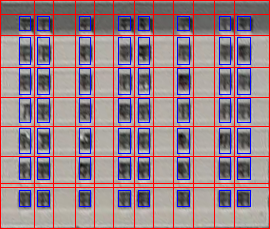
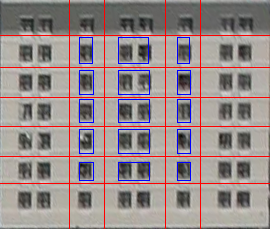
update.

Changed region(s): [[0.0, 0.0, 1.0, 1.0]]

diff --git a/Test8/main.cpp b/Test8/main.cpp
@@ -16,6 +16,7 @@
 #include <opencv2/opencv.hpp>
 #include "CVUtils.h"
 #include "Utils.h"
+#include <time.h>
 
 using namespace std;
 
@@ -919,93 +920,57 @@ bool subdivideTile(const cv::Mat& tile, const cv::Mat& edges, int min_size, int 
 }
 
 /**
- * 領域(x1,y1)-(x2,y2)を分割し、領域を更新する。
- */
-void updateRegion(const Subdivision& subdivision, int& x1, int& y1, int& x2, int& y2) {
-	if (subdivision.dir == Subdivision::TYPE_LEFT) {
-		x1 += subdivision.dist;
-		if (subdivision.dual) {
-			x2 -= subdivision.dist;
-		}
-	}
-	else if (subdivision.dir == Subdivision::TYPE_RIGHT) {
-		x2 -= subdivision.dist;
-		if (subdivision.dual) {
-			x1 -= subdivision.dist;
-		}
-	}
-	else if (subdivision.dir == Subdivision::TYPE_TOP) {
-		y1 += subdivision.dist;
-		if (subdivision.dual) {
-			y2 -= subdivision.dist;
-		}
-	}
-	else if (subdivision.dir == Subdivision::TYPE_BOTTOM) {
-		y2 -= subdivision.dist;
-		if (subdivision.dual) {
-			y1 -= subdivision.dist;
-		}
-	}
-}
-
-/**
  * Ver(y)の極小値をsplit lineの候補とし、S_max(y)に基づいて最適なsplit lineの組み合わせを探す。
  *
- * @param img			Facade画像 (3-channel image)
- * @param SV_max		S_max(y)
- * @param h_max			h_max(y)
- * @param floor_height	floor height
  * @param Ver			Ver(y)
+ * @param min_interval	minimum floor height
+ * @param max_interval	maximum floor height
  * @param y_split		最適なsplit lineの組み合わせ
  */
-void findBestHorizontalSplitLines(const cv::Mat& img, const cv::Mat_<float>& SV_max, const cv::Mat_<float>& h_max, const float floor_height, const cv::Mat_<float>& Ver, vector<int>& y_split) {
+void findBestHorizontalSplitLines(const cv::Mat& img, const cv::Mat_<float>& Ver, float min_interval, float max_interval, vector<int>& y_split) {
 	y_split.clear();
 
-	vector<int> y_potential;
-	for (int r = 0; r < Ver.rows; ++r) {
-		if (cvutils::isLocalMinimum(Ver, r, 3)) {
-			y_potential.push_back(r);
-		}
-	}
-
-	vector<int> flags(y_potential.size(), 0);
-	float max_score = -numeric_limits<float>::max();
-	vector<int> max_flags(y_potential.size(), 0);
+	vector<int> y_candidates = cvutils::getPeak(Ver, false, 1, cvutils::LOCAL_MINIMUM, 1);
+	
+	vector<int> flags(y_candidates.size(), 0);
+	float min_cost = numeric_limits<float>::max();
+	vector<int> best_flags(y_candidates.size(), 0);
+	printf("find best horizontal split lines: ");
+	int iter = 0;
 	while (true) {
-		// compute the score
-		float score = 0.0f;
+		printf("\rfind best horizontal split lines: %d", iter++);
+
+		// compute the cost
+		float cost = 0.0f;
 		int y_prev = 0;
 		int count = 0;
 		bool valid = true;
 		for (int i = 0; i < flags.size(); ++i) {
-			if (flags[i] == 0) {
-				// このsplit lineを使用しないことによるペナルティ
-				score -= SV_max(y_potential[i], 0) * 0.5;
-				continue;
-			}
-
-			count++;
+			if (flags[i] == 0) continue;
 
 			// １つ前のsplit lineとの距離をチェック
-			if (abs(y_potential[i] - y_prev) < 10 || abs(y_potential[i] - y_prev) > floor_height * 3.0f) {
+			if (y_candidates[i] - y_prev < min_interval || y_candidates[i] - y_prev > max_interval) {
 				valid = false;
 				break;
 			}
 
-			if (abs(y_potential[i] - y_prev - h_max(y_prev, 0)) < 5 || abs(y_potential[i] - y_prev - h_max(y_potential[i], 0)) < 5) {
-				score += SV_max(y_potential[i], 0);
-			}
-
-			y_prev = y_potential[i];
+			cost += Ver(y_candidates[i], 0);
+			y_prev = y_candidates[i];
+			count++;
 		}
 
-		if (valid) {
-			score /= count;
+		// 最後のsplit lineとground levelとの距離をチェック
+		if (img.rows - 1 - y_prev < min_interval || img.rows - 1 - y_prev > max_interval) {
+			valid = false;
+		}
 
-			// update the max score
-			if (score > max_score) {
-				max_score = score;
-				max_flags = flags;
+		if (valid && cost > 0) {
+			cost /= count;
+
+			// update the min cost
+			if (cost < min_cost) {
+				min_cost = cost;
+				best_flags = flags;
 			}
 		}
 
@@ -1024,11 +989,12 @@ void findBestHorizontalSplitLines(const cv::Mat& img, const cv::Mat_<float>& SV_
 
 		if (!incremented) break;
 	}
+	printf("\n");
 
 	// y_splitに、最適解を格納する
-	for (int i = 0; i < max_flags.size(); ++i) {
-		if (max_flags[i] == 1) {
-			y_split.push_back(y_potential[i]);
+	for (int i = 0; i < best_flags.size(); ++i) {
+		if (best_flags[i] == 1) {
+			y_split.push_back(y_candidates[i]);
 		}
 	}
 }
@@ -1036,61 +1002,59 @@ void findBestHorizontalSplitLines(const cv::Mat& img, const cv::Mat_<float>& SV_
 /**
 * Hor(x)の極小値をsplit lineの候補とし、S_max(x)に基づいて最適なsplit lineの組み合わせを探す。
 *
-* @param img			Facade画像 (3-channel image)
-* @param SH_max			S_max(x)
-* @param w_max			w_max(x)
-* @param tile_width		tile width
 * @param Hor			Hor(x)
+* @param min_interval	minimum tile width
+* @param max_interval	maximum tile width
 * @param x_split		最適なsplit lineの組み合わせ
 */
-void findBestVerticalSplitLines(const cv::Mat& img, const cv::Mat_<float>& SH_max, const cv::Mat_<float>& w_max, const float tile_width, const cv::Mat_<float>& Hor, vector<int>& x_split) {
+void findBestVerticalSplitLines(const cv::Mat& img, const cv::Mat_<float>& Hor, float min_interval, float max_interval, vector<int>& x_split) {
 	x_split.clear();
 
-	vector<int> x_potential;
-	for (int c = 0; c < Hor.cols; ++c) {
-		if (cvutils::isLocalMinimum(Hor, c, 3)) {
-			x_potential.push_back(c);
-		}
-	}
+	vector<int> x_candidates = cvutils::getPeak(Hor, false, 1, cvutils::LOCAL_MAXIMUM, 1);
 
-	vector<int> flags(x_potential.size(), 0);
-	float max_score = -numeric_limits<float>::max();
-	vector<int> max_flags(x_potential.size(), 0);
+	vector<int> flags(x_candidates.size(), 0);
+	float min_cost = numeric_limits<float>::max();
+	vector<int> best_flags(x_candidates.size(), 0);
+	printf("find best vertical split lines: ");
+	int iter = 0;
 	while (true) {
-		// compute the score
-		float score = 0.0f;
+		printf("\rfind best vertical split lines: %d", iter);
+
+		// compute the cost
+		float cost = 0.0f;
 		int x_prev = 0;
 		int count = 0;
 		bool valid = true;
 		for (int i = 0; i < flags.size(); ++i) {
-			if (flags[i] == 0) {
-				// このsplit lineを使用しないことによるペナルティ
-				score -= SH_max(0, x_potential[i]) * 0.5;
-				continue;
-			}
+			if (flags[i] == 0) continue;
 
-			count++;
 
 			// １つ前のsplit lineとの距離をチェック
-			if (abs(x_potential[i] - x_prev) < 10 || abs(x_potential[i] - x_prev) > tile_width * 3.0f) {
+			if (x_candidates[i] - x_prev < min_interval || x_candidates[i] - x_prev > max_interval) {
 				valid = false;
 				break;
 			}
 
-			if (abs(x_potential[i] - x_prev - w_max(0, x_prev)) < 5 || abs(x_potential[i] - x_prev - w_max(0, x_potential[i])) < 5) {
-				score += SH_max(0, x_potential[i]);
+			if (i == flags.size() - 1) {
+				// 最後のsplit lineと右端との距離をチェック
+				if (img.cols - 1 - x_candidates[i] < min_interval || img.cols - 1 - x_candidates[i] > max_interval) {
+					valid = false;
+					break;
+				}
 			}
 
-			x_prev = x_potential[i];
+			cost += Hor(0, x_candidates[i]);
+			x_prev = x_candidates[i];
+			count++;
 		}
 
-		if (valid) {
-			score /= count;
+		if (valid && cost > 0) {
+			cost /= count;
 
 			// update the max score
-			if (score > max_score) {
-				max_score = score;
-				max_flags = flags;
+			if (cost < min_cost) {
+				min_cost = cost;
+				best_flags = flags;
 			}
 		}
 
@@ -1109,18 +1073,17 @@ void findBestVerticalSplitLines(const cv::Mat& img, const cv::Mat_<float>& SH_ma
 
 		if (!incremented) break;
 	}
+	printf("\n");
 
 	// x_splitに、最適解を格納する
-	for (int i = 0; i < max_flags.size(); ++i) {
-		if (max_flags[i] == 1) {
-			x_split.push_back(x_potential[i]);
+	for (int i = 0; i < best_flags.size(); ++i) {
+		if (best_flags[i] == 1) {
+			x_split.push_back(x_candidates[i]);
 		}
 	}
 }
 
 void getSplitLines(const cv::Mat_<float>& mat, vector<int>& split_positions) {
-	split_positions = cvutils::getPeak(mat, false, 0, cvutils::LOCAL_MINIMUM);
-	/*
 	if (mat.cols == 1) {
 		for (int r = 0; r < mat.rows; ++r) {
 			if (cvutils::isLocalMinimum(mat, r, 1)) {
@@ -1135,7 +1098,6 @@ void getSplitLines(const cv::Mat_<float>& mat, vector<int>& split_positions) {
 			}
 		}
 	}
-	*/
 	
 	if (split_positions.size() == 0 || split_positions[0] > 0) {
 		split_positions.insert(split_positions.begin(), 0);
@@ -1395,21 +1357,18 @@ void subdivideFacade(const cv::Mat& img) {
 	cvutils::outputImageWithHorizontalAndVerticalGraph(img, Ver, Hor, "facade_subdivision_by_ver_hor.png", cvutils::LOCAL_MINIMUM, 1);
 	/////////////////////////////////////////////////////////////////
 	
-#if 0
-	// potentialのsplit lineの中で、最適な組み合わせを探す
-	vector<int> y_split;
-	findBestHorizontalSplitLines(img, SV_max, h_max, floor_height, Ver, y_split);	
-	outputFacadeStructureV(img, SV_max, h_max, y_split, "facade_structure_V.png", 1);
-	
-	// potentialのsplit lineの中で、最適な組み合わせを探す
-	vector<int> x_split;
-	findBestVerticalSplitLines(img, SH_max, w_max, tile_width, Hor, x_split);
-	outputFacadeStructureH(img, SH_max, w_max, x_split, "facade_structure_H.png", 1);
+	time_t start = clock();
 
-	// visualize the facade structure
-	//outputFacadeStructure(img, SV_max, h_max, SH_max, w_max, y_split, x_split, "facade_structure.png", 1);
-	outputFacadeStructure(img, y_split, x_split, "facade_structure.png", 1);
-#endif
+	// Facadeのsplit linesを求める
+	vector<int> y_split;
+	//findBestHorizontalSplitLines(img, Ver, floor_height * 0.85, floor_height * 1.85, y_split);
+	getSplitLines(Ver, y_split);
+	vector<int> x_split;
+	//findBestVerticalSplitLines(img, Hor, tile_width * 0.4, tile_width * 1.85, x_split);
+	getSplitLines(Hor, x_split);
+	time_t end = clock();
+	cout << "Time: " << (end - start) << "msec." << endl;
+	outputFacadeStructure(img, y_split, x_split, "facade_subdivision.png", 1);
 
 	cv::Mat detected_edges;
 	cv::Canny(img, detected_edges, 30, 100, 3);
@@ -1439,13 +1398,8 @@ void subdivideFacade(const cv::Mat& img) {
 	cv::reduce(detected_horizontal_edges, horizontal_edge_max, 0, CV_REDUCE_MAX, CV_32F);
 #endif
 	
-	vector<int> y_split;
-	getSplitLines(Ver, y_split);
-	vector<int> x_split;
-	getSplitLines(Hor, x_split);
+	// 各tileの窓の位置を求める
 	vector<vector<cv::Rect>> window_rects;
-	outputFacadeStructure(img, y_split, x_split, "facade_subdivision.png", 1);
-
 	int window_count = 0;
 	window_rects.resize(y_split.size() - 1);
 	for (int i = 0; i < y_split.size() - 1; ++i) {
@@ -1464,6 +1418,7 @@ void subdivideFacade(const cv::Mat& img) {
 	cout << "Window count: " << window_count << endl;
 	outputFacadeAndWindows(img, y_split, x_split, window_rects, "facade_windows.png");
 
+	// 窓の位置をalignする
 	refine(y_split, x_split, window_rects);
 	outputFacadeAndWindows(img, y_split, x_split, window_rects, "facade_windows_refined.png");
 }

diff --git a/Test8/CVUtils.cpp b/Test8/CVUtils.cpp
@@ -445,7 +445,6 @@ namespace cvutils {
 
 		// draw vertical graph
 		cv::Mat blured_ver;
-		//cv::GaussianBlur(ver, blured_ver, cv::Size(5, 5), 0, 0);
 		for (int r = 0; r < img.rows - 1; ++r) {
 			int x1 = img.cols + (ver.at<float>(r, 0) - min_ver) / (max_ver - min_ver) * graphSize;
 			int x2 = img.cols + (ver.at<float>(r + 1, 0) - min_ver) / (max_ver - min_ver) * graphSize;
@@ -454,7 +453,6 @@ namespace cvutils {
 
 			if (flag & LOCAL_MINIMUM && r > 0) {
 				if (isLocalMinimum(ver, r, 1)) {
-				//if (ver.at<float>(r, 0) < ver.at<float>(r - 1, 0) && ver.at<float>(r, 0) < ver.at<float>(r + 1, 0)) {
 					cv::line(result, cv::Point(0, r), cv::Point(img.cols - 1, r), peak_color, lineWidth);
 				}
 			}
@@ -462,10 +460,7 @@ namespace cvutils {
 
 		// draw horizontal graph
 		cv::Mat blured_hor;
-		//cv::GaussianBlur(hor, blured_hor, cv::Size(5, 5), 0, 0);
 		for (int c = 0; c < img.cols - 1; ++c) {
-			//int y1 = result.rows - 1 - (hor.at<float>(0, c) - min_hor) / (max_hor - min_hor) * graphSize;
-			//int y2 = result.rows - 1 - (hor.at<float>(0, c + 1) - min_hor) / (max_hor - min_hor) * graphSize;
 			int y1 = img.rows + (hor.at<float>(0, c) - min_hor) / (max_hor - min_hor) * graphSize;
 			int y2 = img.rows + (hor.at<float>(0, c + 1) - min_hor) / (max_hor - min_hor) * graphSize;
 
@@ -473,7 +468,6 @@ namespace cvutils {
 
 			if (flag & LOCAL_MINIMUM && c > 0) {
 				if (isLocalMinimum(hor, c, 1)) {
-				//if (hor.at<float>(0, c) < hor.at<float>(0, c - 1) && hor.at<float>(0, c) < hor.at<float>(0, c + 1)) {
 					cv::line(result, cv::Point(c, 0), cv::Point(c, img.rows - 1), peak_color, lineWidth);
 				}
 			}
